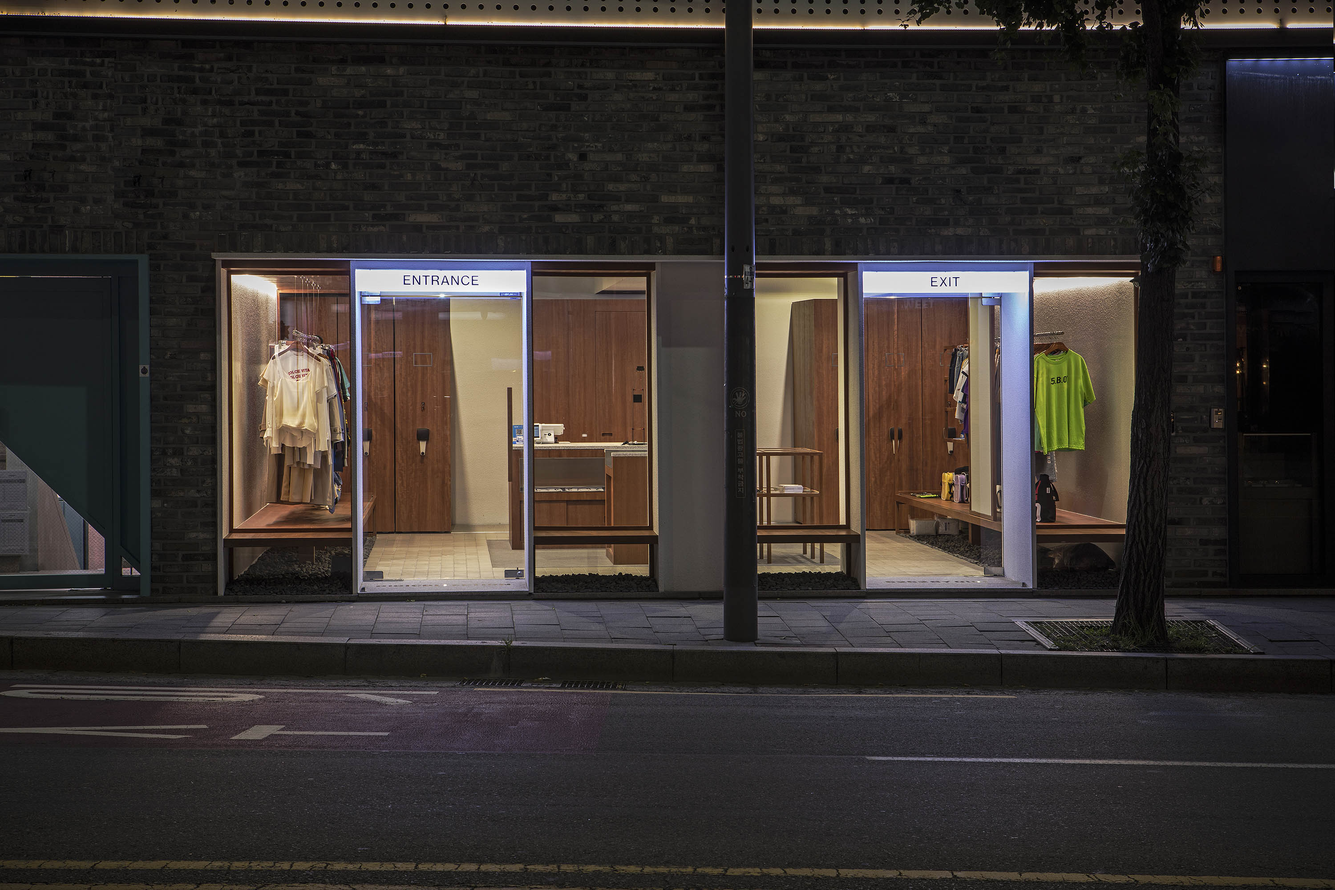
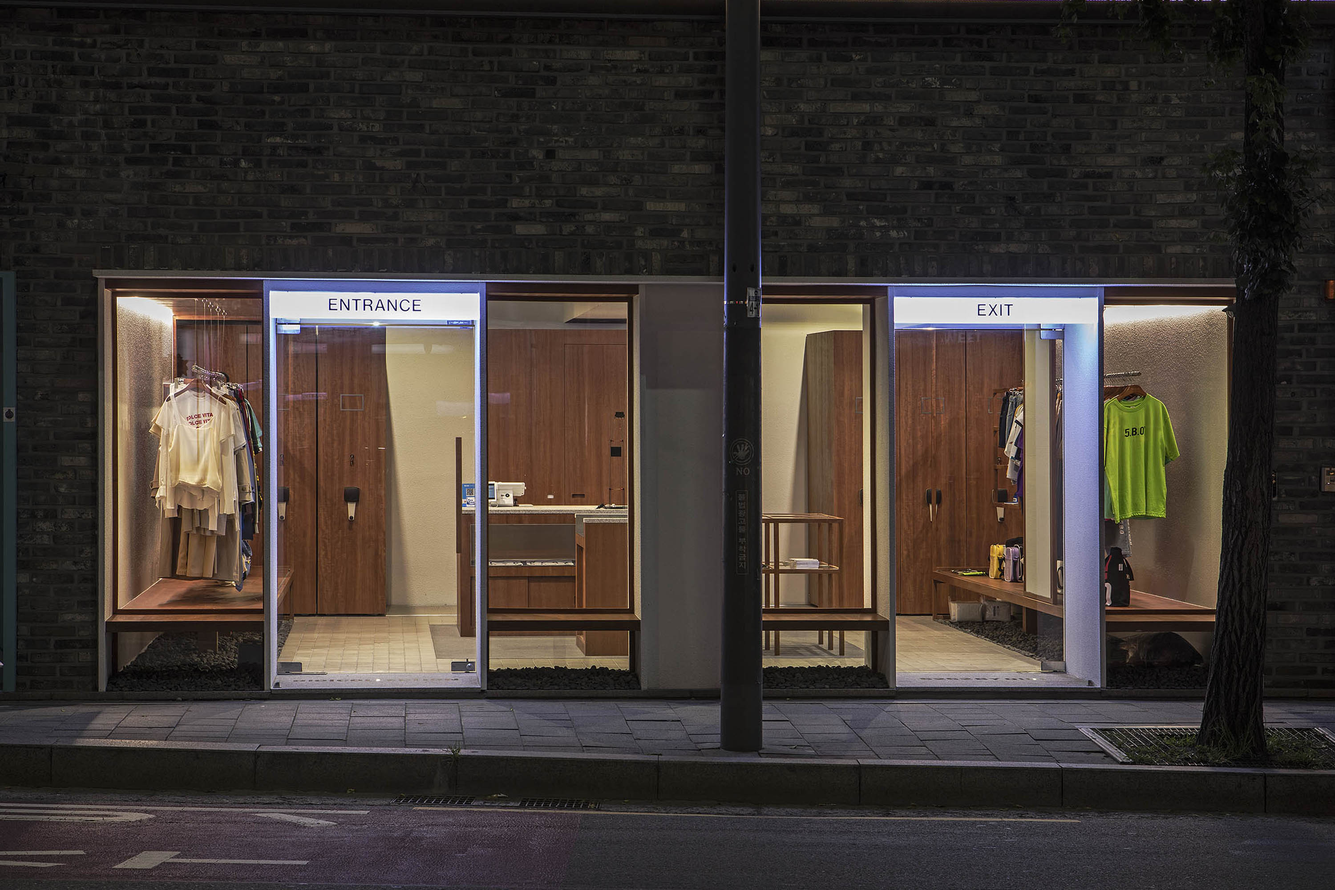
글로벌추가 / 매장사진수정 / 띠배너 컬러조정

diff --git a/css/contents.css b/css/contents.css
@@ -1,11 +1,11 @@
 @charset "utf-8";
 /* intro */
-.d_logo{position:absolute;top:20px;left:20px;z-index:100;}
+.d_logo{position:absolute; top:20px;left:20px;z-index:100; }
 .oi_logo{width:300px;}
 .byoioi_logo{width:250px;}
 .oicollection_mini_logo{width:50px;position:absolute;left:-60px}
 .byoioi_mini_logo{width:50px;position:absolute;left:40px}
-.quick_menu{width:80px;background-color:#fff;position:fixed;top:0;right:0;z-index:110;bottom:0;transition:.5s}
+.quick_menu{width:80px; background-color:#fff; position:fixed;top:0;right:0; z-index:110; bottom:0; transition:.5s}
 .quick_menu_open{font-size:12px;position:absolute;top:20%;left:-65px;-webkit-transform:rotate(90deg);transform:rotate(90deg);-webkit-transition:all .3s;transition:all .3s;padding:10px;background-color:#fff;border-left:solid 1px #ccc;border-bottom:solid 1px #ccc;border-right:solid 1px #ccc;cursor:pointer;border-radius: 0 0 5px 5px;}
 .quick_cont{padding:10px;}
 .quick_cont img {width:100%;}
@@ -24,7 +24,7 @@ header h1{width:250px; margin:0 auto;margin-top:10px}
 header h1 img{width:100%}
 
 /*  띠팝업  */
-.header_notice{width:100%; height:30px; background-color:#64c063; font-size:10pt; z-index:31; overflow:hidden; }
+.header_notice{width:100%; height:30px; background-color:#000; font-size:10pt; z-index:31; overflow:hidden; }
 .header_notice marquee{color:#fff; line-height:30px;scrolldelay:1000; z-index:2;margin:0;padding:0;}
 
 .header_menu{position:relative; height:100px;}
@@ -119,8 +119,15 @@ footer{padding-bottom:30px;}
 .shop_all ul{ text-align:center; }
 .shop_all ul>li{ display:inline-block; padding:0 10px; }
 
-
-
+.hash_tag {  height:500px;  padding-top:200px; margin:0 auto;}
+.hash_tag .tag {overflow:hidden;  line-height:60px; margin:0 auto;  }
+.hash_tag .tag li { padding-right:20px; float:left;}
+.hash_tag .tag li a { font-size:35px; font-weight:700; text-decoration:none; }
+.hash_tag .first { width:400px;}
+.hash_tag .swim:hover { background-image:url('../img/swim.gif');}
+.hash_tag .second { width:430px;}
+.hash_tag .third { width:400px;}
+.hash_tag .fourth { width:200px;}
 
 
 /* 필터 */
@@ -207,11 +214,20 @@ input::-moz-input-placeholder {color:#ccc; }
 .store {position:relative; margin-top:-100px; }
 .store .swiper-container {width:100%; height:100vh;}
 .store .swiper-slide { text-align:center; font-size:18px; background:#fff;display:-webkit-box;display:-ms-flexbox;display:-webkit-flex;display:flex;-webkit-box-pack:center;-ms-flex-pack:center;-webkit-justify-content:center;justify-content:center;-webkit-box-align:center;-ms-flex-align:center;-webkit-align-items:center;align-items:center;background-size:cover; background-position:center center; }
-.store .ad_text { position:absolute; bottom:100px; right:150px; color:#fff; z-index:100; line-height:30px; font-size:12px;  }
 .store span.flagship {font-weight:700; color:#fff; font-size:16px; }
+.offline_store {  overflow:hidden; font-size:12px;}
+.country {width:50%; float:left; font-weight:600; }
+.tab { border-left:none;overflow:hidden; }
+.tab li { width:100%; text-align:right; box-sizing:border-box; display:inline-block; padding:25px; padding-right:100px;  cursor:pointer;  }
+.tab li.on { text-decoration:underline; }
+.tab_con { width:50%; float:left; display:table; }
+.tab_con div {display:none; padding:20px 0 0 100px; background-color:#000;height:476px; line-height:30px;  vertical-align:middle;}
+.tab_con li {color:#fff; }
+.tab_con .korea li:first-child { font-weight:600; font-size:14px; }
+
 
 /* 상세페이지 */
-.detail { width:100%; margin:-200px 0 100px 0;   }
+.detail { width:100%; margin:-200px 0 100px 0;  }
 .detail .lookbook {width:50%; float:left; }
 .detail .lookbook img {width:100%; }
 
@@ -247,19 +263,6 @@ input::-moz-input-placeholder {color:#ccc; }
 #container .wish ul li img {width:100%; }
 
 
-.hash_tag {  height:500px;  padding-top:200px; margin:0 auto;}
-.hash_tag .tag {overflow:hidden;  line-height:60px; margin:0 auto;  }
-.hash_tag .tag li { padding-right:20px; float:left;}
-.hash_tag .tag li a { font-size:35px; font-weight:700; text-decoration:none; }
-.hash_tag .first { width:400px;}
-.hash_tag .swim:hover { background-image:url('../img/swim.gif');}
-.hash_tag .first li:first-child a { color:#7cb9e5;}
-.hash_tag .second { width:430px;}
-.hash_tag .third { width:400px;}
-.hash_tag .third li:nth-child(2) a{ color:#afdab2;}
-.hash_tag .fourth { width:200px;}
-.hash_tag .fourth a {color:#f6be45;}
-.hash_tag .fourth a:hover {color:#f6be45;}
 
 
 

diff --git a/html/store.html b/html/store.html
@@ -49,15 +49,10 @@
   		  <!-- Add Pagination -->
    				 <div class="swiper-pagination"></div>
   		  <!-- Add Arrows -->
-   			 <div class="swiper-button-next"></div>
+   			 <!--div class="swiper-button-next"></div>
    			 <div class="swiper-button-prev"></div>
-			  </div><!-- swiper-container -->
-			  <p class="ad_text">
-			  	<span class="flagship">O!Oi Collection FLAGSHIP STORE 홍대</span><br>
-				서울시 마포구 서교동 337-27<br>
-				1F 4th, 337-27, Seogyo-dong, Mapo-gu, Seoul, KOREA<br>
-				Tel. 070 8848 5253<br>
-			  </p>
+			  </div--><!-- swiper-container -->
+	
 			 </div><!-- store-->
 
   		<script> <!-- Initialize Swiper -->
@@ -77,6 +72,7 @@
 		<div class="offline_store">
 		<div class="country">
 			<ul class="tab" id="tab">
+				<li>FLAGSHIP STORE</li>
 				<li>KOREA</li>
 				<li>JAPAN</li>
 				<li>CHINA</li>	
@@ -87,6 +83,11 @@
 			</ul>
 		</div>	<!-- country -->
 		<div class="tab_con" id="tab_con">
+			 <div>
+			 	<li>서울시 마포구 서교동 337-27</li>
+				<li>1F 4th, 337-27, Seogyo-dong, Mapo-gu, Seoul, KOREA</li>
+				<li>Tel. 070 8848 5253</li>
+			</div><!--flagship store-->
 			<div class="korea">
 				<ul>
 					<li>AROUND CORNER</li>
@@ -106,7 +107,6 @@
 				<li>200, Achasan-ro, Gwangjin-gu, Seoul, Republic of Korea</li>
 				</ul>
 			</div>	<!--korea -->
-			
 		    <div>
 				<li>A'GEM / Shibuya / 4-32-1, Jingumae, Shibuya-ku, Tokyo, 150-0001, Japan</li>
 				<li>KONVINI / Laforet HARAJUKU B0.5F 1-11-6 Jingumae, Shibuya-ku,Tokyo,Japan.</li>
@@ -134,7 +134,7 @@
 			</div><!--taiwan-->
 		</div><!--tab_on -->
 		</div><!-- offline_Store-->
-		
+		<!-- offline_store  -->
 					<script>
 				$(function () {	
 				tab('#tab',0);	

diff --git a/html/header.html b/html/header.html
@@ -9,9 +9,9 @@
 	<header>
 		<div class="header_notice">
 			<marquee vspace="5">
-				<span style="margin-right:300px; float:left; color:white; ">OiOiCOLLECTION 20RESORT OPEN EVENT</span>
-				<span style="margin-right:300px; float:left; color:white; ">OiOiCOLLECTION 20RESORT OPEN EVENT</span>
-				<span style="margin-right:300px; float:left; color:white; ">OiOiCOLLECTION 20RESORT OPEN EVENT</span>
+				<span style="margin-right:300px; float:left; color:#c8fb4f; ">OiOiCOLLECTION 20RESORT OPEN EVENT</span>
+				<span style="margin-right:300px; float:left; color:#c8fb4f; ">OiOiCOLLECTION 20RESORT OPEN EVENT</span>
+				<span style="margin-right:300px; float:left; color:#c8fb4f; ">OiOiCOLLECTION 20RESORT OPEN EVENT</span>
 			</marquee>
 		</div>
 
